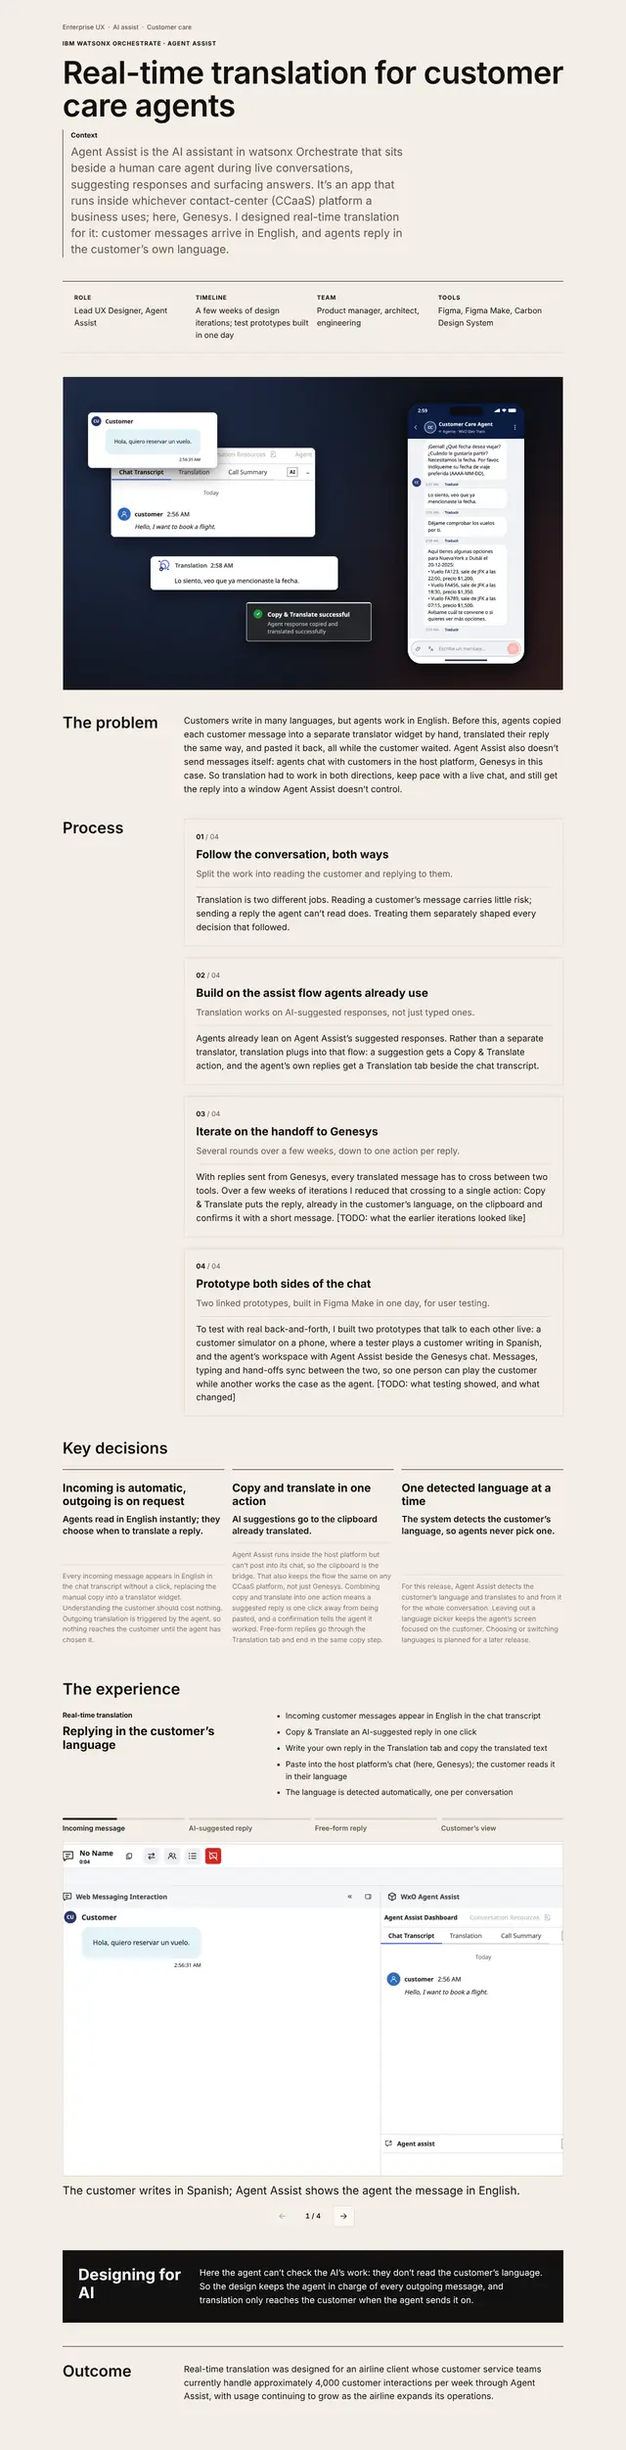
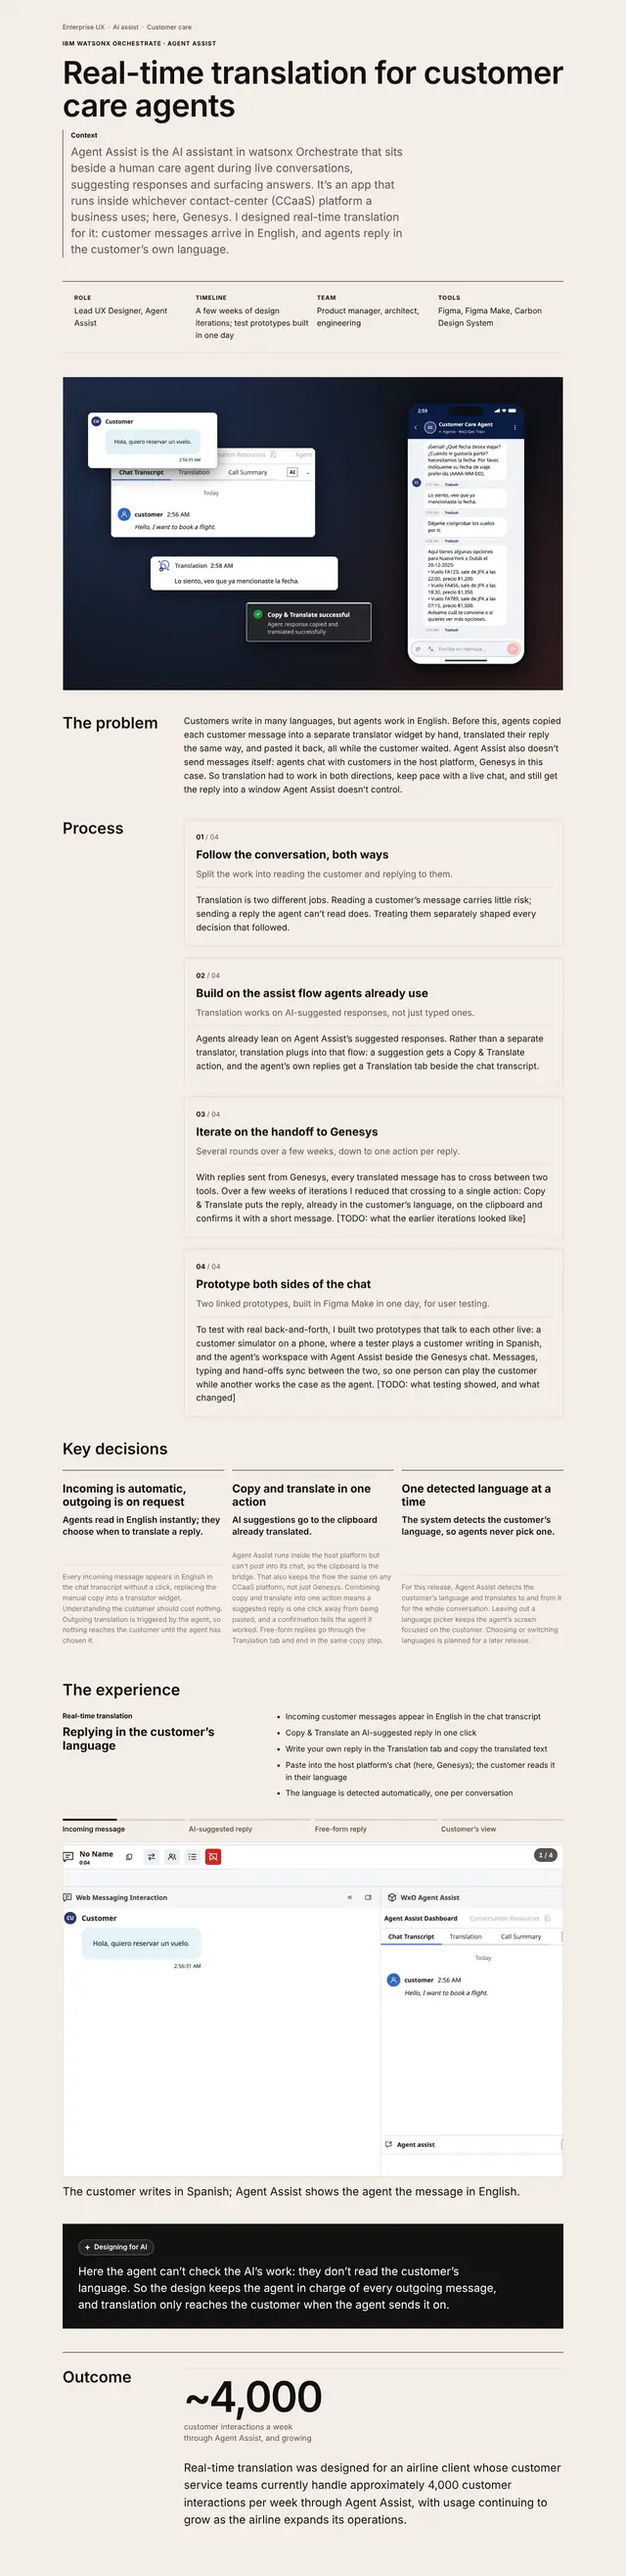
Outcomes lead with large headline figures
500K+ and ~80% on channels and voice; ~4,000 a week on translation.
The full outcome sentence follows. Refreshed hover snapshots.

Claude-Session: https://claude.ai/code/session_01UmP9qFxGfsMXPBeE9V2SiF

diff --git a/src/content.ts b/src/content.ts
@@ -211,6 +211,8 @@ export type Project = {
     /** `summary` is the one-liner shown on the closed tile; `body` opens on click. */
     process: { heading: string; summary?: string; body: string }[];
     outcome: string;
+    /** Headline figures shown large above the outcome text. Only figures you can share publicly. */
+    outcomeStats?: { value: string; label: string }[];
     images: Img[];
     /** Optional richer sections — only rendered when present. */
     /** `summary` is the short, bold decision; `body` is the reasoning. */
@@ -299,7 +301,7 @@ const allProjects: Project[] = [
       src: '/images/peek-ibm.webp',
       alt: 'Preview of the case study page, scrolling from top to bottom',
       width: 640,
-      height: 3335,
+      height: 3442,
     },
     caseStudy: {
       role: 'UX Designer, channel and voice configuration',
@@ -585,6 +587,10 @@ const allProjects: Project[] = [
           },
         ],
       },
+      outcomeStats: [
+        { value: '500K+', label: 'voice requests, up from the low hundreds of thousands' },
+        { value: '~80%', label: 'growth in channel traffic' },
+      ],
       outcome:
         'Core voice interactions scaled substantially, growing from the low hundreds of thousands to well over half a million requests. These efforts contributed to channel traffic growth of roughly 80%, while improving the experience across Slack and Microsoft Teams, among the platform’s most heavily used customer channels.',
       images: [],
@@ -608,7 +614,7 @@ const allProjects: Project[] = [
       src: '/images/peek-agent-assist-translation.webp',
       alt: 'Preview of the case study page, scrolling from top to bottom',
       width: 640,
-      height: 2502,
+      height: 2630,
     },
     caseStudy: {
       role: 'Lead UX Designer, Agent Assist',
@@ -724,6 +730,9 @@ const allProjects: Project[] = [
         heading: 'Designing for AI',
         body: 'Here the agent can’t check the AI’s work: they don’t read the customer’s language. So the design keeps the agent in charge of every outgoing message, and translation only reaches the customer when the agent sends it on.',
       },
+      outcomeStats: [
+        { value: '~4,000', label: 'customer interactions a week through Agent Assist, and growing' },
+      ],
       outcome:
         'Real-time translation was designed for an airline client whose customer service teams currently handle approximately 4,000 customer interactions per week through Agent Assist, with usage continuing to grow as the airline expands its operations.',
       images: [],

diff --git a/src/pages/CaseStudyEnterprise.css b/src/pages/CaseStudyEnterprise.css
@@ -139,6 +139,45 @@ body:has(.cs) {
   line-height: 1.5;
 }
 
+/* Outcome: headline figures, large, with the full sentence underneath */
+.cs__outcome-body {
+  min-width: 0;
+}
+.cs__stats {
+  display: grid;
+  grid-template-columns: repeat(auto-fit, minmax(min(15rem, 100%), 1fr));
+  gap: clamp(1.5rem, 4vw, 3.5rem);
+  margin: 0 0 var(--space-6);
+}
+.cs__stats > div {
+  display: flex;
+  flex-direction: column-reverse; /* figure on top; the label is still read first */
+  justify-content: flex-end;
+  gap: var(--space-2);
+  padding-top: var(--space-4);
+  border-top: 1px solid #ddd5c8;
+}
+.cs__stats dd {
+  margin: 0;
+  font-size: clamp(3.25rem, 2.2rem + 4vw, 5.5rem);
+  font-weight: 600;
+  line-height: 0.95;
+  letter-spacing: -0.04em;
+  font-variant-numeric: tabular-nums;
+  color: #111111;
+}
+.cs__stats dt {
+  max-width: 26ch;
+  font-size: var(--fs-base);
+  line-height: 1.45;
+  color: #5e584f;
+}
+.cs__outcome-body > p {
+  max-width: 62ch;
+  font-size: var(--fs-lg);
+  line-height: 1.55;
+}
+
 /* Outcome: open section under a black rule */
 .cs__outcome {
   padding-left: 0;

diff --git a/src/pages/CaseStudy.tsx b/src/pages/CaseStudy.tsx
@@ -241,7 +241,19 @@ export default function CaseStudy({ standalone = false }: { standalone?: boolean
 
       <section className="cs__section cs__outcome" aria-labelledby="cs-outcome">
         <h2 id="cs-outcome">{L.outcome}</h2>
-        <p>{cs.outcome}</p>
+        <div className="cs__outcome-body">
+          {cs.outcomeStats && cs.outcomeStats.length > 0 && (
+            <dl className="cs__stats">
+              {cs.outcomeStats.map((st) => (
+                <div key={st.value}>
+                  <dt>{st.label}</dt>
+                  <dd>{st.value}</dd>
+                </div>
+              ))}
+            </dl>
+          )}
+          <p>{cs.outcome}</p>
+        </div>
       </section>
 
       {!standalone && next && next.slug !== project.slug && (
